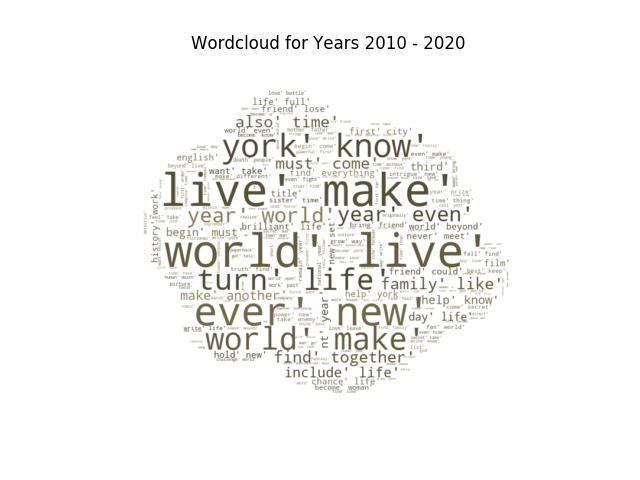
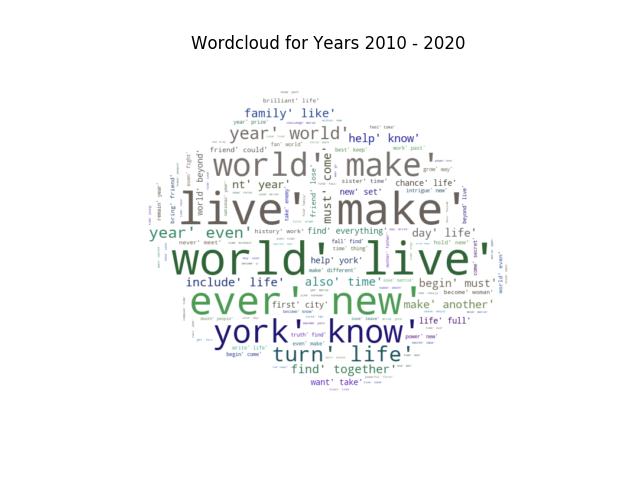
Pushing final changes for overview in views

Changed region(s): [[0.2188, 0.1875, 0.8125, 0.8438]]

diff --git a/Brie/app/templates/app/overview.html b/Brie/app/templates/app/overview.html
@@ -102,10 +102,10 @@
                     </div>
             </div>
 
-            {% if most_priciest_genres_div %}
+            {% if priciest_genres_div %}
                 <div >
                    <center>
-                {{most_priciest_genres_div|safe}}
+                {{priciest_genres_div|safe}}
                       </center>
                 </div>
                 {% endif %}
@@ -142,8 +142,7 @@
           <br/><br/>
 
             <center><b><h2>Wordclouds: Famous Words by Years</h2></b> </center>
-
-            <div class='circle-container'>
+            <div>
                 <img src="../../static/img/image5.png", alt= '1800 - 1870',title='1800 - 1870'>
                 <img src="../../static/img/image4.png" , alt='1870 - 1960',title='1870 - 1960'>
                 <center>

diff --git a/Brie/app/views.py b/Brie/app/views.py
@@ -12,6 +12,12 @@ import plotly.plotly
 from plotly.graph_objs import Bar, Scatter, Layout
 import numpy as np
 import collections
+import random
+from wordcloud import WordCloud
+import matplotlib.pyplot as plt
+from os import path
+from PIL import Image
+import string
 
 mongo_client = MongoClient('mongodb://sethu:sethu123@localhost:27017/Brie')
 mongo_brie_db = mongo_client.Brie
@@ -107,8 +113,9 @@ def book_view(request, book_id):
 
 
 def random_color_func(word=None, font_size=None, position=None,  orientation=None, font_path=None, random_state=None):
-    h = int(360.0 * 32.0 / 255.0)
-    s = int(100.0 * 56.0 / 255.0)
+    random_int = (random.randint(0, 200))
+    h = int(360.0 * random_int / 255.0)
+    s = int(100.0 * random_int / 255.0)
     l = int(100.0 * float(random_state.randint(60, 120)) / 255.0)
     return "hsl({}, {}%, {}%)".format(h, s, l)
 
@@ -162,8 +169,8 @@ def overview(request):
         chart_labels_dict[years_lst[i]] = chart_labels[i]
 
     ctr = 0
-    while ctr<2000:
-        page_buckets.append(ctr+100)
+    while ctr < 2000:
+        page_buckets.append(ctr + 100)
         ctr += 100
 
     # all books are in their respective decades by the end of this for loop
@@ -198,7 +205,7 @@ def overview(request):
         book_counter_per_yrange = 0
         pages_counter_per_yrange = 0
         for item in book:
-            #genre-related
+            # genre-related
             if len(item["genres"]) == 0 or item["genres"][0] == "":
                 genre_dissect = item["genre_dissect"]
                 if (len(genre_dissect)) == 0:
@@ -222,7 +229,7 @@ def overview(request):
             price_val = 0
             if 1 <= item["google_play_price"] <= 100:
                 price_sum += item["google_play_price"]
-                price_val +=1
+                price_val += 1
             if 1 <= item["barnes_and_noble_price"] <= 100:
                 price_sum += item["barnes_and_noble_price"]
                 price_val += 1
@@ -243,20 +250,20 @@ def overview(request):
             language = item["language"]
             if language == "":
                 language = "Unspecified"
-            if(language!="Unspecified"): #removing unspecified
+            if (language != "Unspecified"):  # removing unspecified
                 book_languages_dict[year].append(language)
                 all_language_lst.append(language)
 
             # #-books/month
             pub_month = item["pub_month"]
-            if(pub_month!=-1):
-                book_months_dict[pub_month] +=1
+            if (pub_month != -1):
+                book_months_dict[pub_month] += 1
 
             # pgs vs price
             for size in page_buckets:
-                if(size-100 <=item["pages"] < size):
-                    if(price_sum>0 and item["pages"]>0):
-                        pages_price_dict[size].append(price_sum/price_val)
+                if (size - 100 <= item["pages"] < size):
+                    if (price_sum > 0 and item["pages"] > 0):
+                        pages_price_dict[size].append(price_sum / price_val)
 
             # popular words
             descriptions = []
@@ -276,7 +283,8 @@ def overview(request):
 
     for (key, val) in genre_count.items():
         v = sorted(val.items(), key=lambda x: x[1], reverse=True)
-        genre_count[key] = ("{:<15}".format(v[0][0]), '<br>', "{:<15}".format(v[1][0]),'<br>', "{:<15}".format(v[2][0]))
+        genre_count[key] = (
+        "{:<15}".format(v[0][0]), '<br>', "{:<15}".format(v[1][0]), '<br>', "{:<15}".format(v[2][0]))
         genre_count[key] = ''.join(genre_count[key])
         chart_values.append(genre_count[key])
 
@@ -286,14 +294,13 @@ def overview(request):
                      cells=dict(values=[chart_labels, chart_values],
                                 line=dict(color='black'),
                                 align=['center']))
-
     data = [trace]
     layout = go.Layout(title="<b>Top Genres per Year Range</b>", height=650, width=550,
-                       autosize=False, font=dict( size=15))
+                       autosize=False, font=dict(size=15))
 
     figure = go.Figure(data=data, layout=layout)
-    genres_by_year_div = opy.plot(figure, auto_open=False, output_type='div', config={"displayModeBar": False},
-                                  show_link=False)
+    genres_by_year_div = opy.plot(figure, auto_open=False, output_type='div',
+                                  show_link=False)  # config={"displayModeBar": False},
 
     context["genres_by_year_div"] = genres_by_year_div
 
@@ -317,15 +324,20 @@ def overview(request):
         x=genre_labels,
         y=genre_values,
         name='Number of Books',
-        marker=dict(color='rgb(49,130,189)'))
+        marker=dict(
+            color=['#00556B', '#00637C', '#006E89', '#007896', '#008EB2',
+                   '#009FC6', '#00A3CC', '#00A9D3', '#00B1DD', '#00C1F2',
+                   ]
+        ))
 
     data = [trace]
-    layout = go.Layout( title="<b>Top-10 Genres in Our Collection</b>", height=550, width=1100,
+    layout = go.Layout(title="<b>Top-10 Genres in Our Collection</b>", height=550, width=1100,
                        autosize=False, yaxis=dict(title='Number of Books'),
-                        xaxis=dict(title='Genres'), font=dict( size=15))
+                       xaxis=dict(title='Genres'), font=dict(size=15))
     figure = go.Figure(data=data, layout=layout)
     most_popular_genres_div = opy.plot(figure, auto_open=False, output_type='div',
-                                       config={"displayModeBar": False}, show_link=False)
+                                       show_link=False)  # config={"displayModeBar": False}
+
     context["most_popular_genres_div"] = most_popular_genres_div
 
     # chart-3: price per genre
@@ -335,7 +347,7 @@ def overview(request):
 
     for key, value in overall_prices.items():
         if top_most_genres_dict[key] > 20:
-            v = round(overall_prices[key]/top_most_genres_dict[key],2)
+            v = round(overall_prices[key] / top_most_genres_dict[key], 2)
             overall_prices_result[key] = v
 
     overall_prices_result_sorted = sorted(overall_prices_result.items(), key=lambda x: x[1], reverse=True)
@@ -349,18 +361,20 @@ def overview(request):
 
     trace = go.Bar(x=price_labels, y=price_values, hoverinfo='label+percent',
                    marker=dict(
-                       color=['#ff598f', '#fd8a5e', '#e0e300', '#01dddd', '#ff598f', '#fd8a5e', '#e0e300',
-                              '#01dddd', '#ff598f', '#fd8a5e', '#e0e300', '#01dddd', '#fd8a5e', '#e0e300',
-                              '#01dddd'])
-                   )
+                       color=[
+                           '#3C015E', '#44026B', '#530282', '#5B028E', '#600396',
+                           '#6A159B', '#7117A5', '#7B19B5', '#811ABC', '#7D07C1',
+                           '#8708D1', '#8C08D8', '#9409E5', '#9700EF', '#A100FF'
+                       ]
+                   ))
     data = go.Data([trace])
     layout = go.Layout(title="<b>Average Book-Price per Genre</b>", height=500, width=1300, autosize=False,
-                font=dict( size=15), yaxis=dict(title='Price of Books'),xaxis = dict(title='Genres'))
+                       font=dict(size=15), yaxis=dict(title='Price of Books'), xaxis=dict(title='Genres'))
 
     figure = go.Figure(data=data, layout=layout)
-    most_priciest_genres_div = opy.plot(figure, auto_open=False, output_type='div', config={"displayModeBar": False},
-                                        show_link=False)
-    context["most_priciest_genres_div"] = most_priciest_genres_div
+    priciest_genres_div = opy.plot(figure, auto_open=False, output_type='div',
+                                   show_link=False)  # config={"displayModeBar": False},
+    context["priciest_genres_div"] = priciest_genres_div
 
     # code commented on purpose
     # chart-4: wordcloud - popular word by decade
@@ -369,10 +383,16 @@ def overview(request):
     #
     # ctr = 1
     # for key, value in words_dict.items():
-    #     text = ' '.join(str(v) for v in value)
-    #     words_dict[key] = text
+    #     temp_value = [x for x in value if x != []]
+    #     text = ' '.join(str(v) for v in temp_value)
+    #     #text = text.translate(string.maketrans("",""), string.punctuation)
+    #     table = str.maketrans({key: None for key in string.punctuation})
+    #     new_text = str(text.translate(table))
+    #     words_dict[key] = new_text
+    #     print("text::::::::", new_text[0:100])
     #     wc = WordCloud(background_color="white",
     #                    max_words=200,
+    #                    margin=10,
     #                    mask=mask,
     #                    color_func=random_color_func).generate(text)
     #     default_colors = wc.to_array()
@@ -385,30 +405,29 @@ def overview(request):
     #     plt.savefig("../Brie/app/static/img/image"+str(ctr)+".png")
     #     plt.close(fig)
     #     ctr += 1
-    #
 
-    #chart-5: #Pages per decade
-    for i in range (len(number_of_pages_by_years)):
-        value = number_of_pages_by_years[i]/number_of_books_by_years[i]
+    # chart-5: #Pages per decade
+    for i in range(len(number_of_pages_by_years)):
+        value = number_of_pages_by_years[i] / number_of_books_by_years[i]
         number_of_pages_values.append(value)
 
     trace = go.Scatter(
         x=chart_labels,
-        y=number_of_pages_values, mode="lines+markers+text", textposition = "top", text=number_of_pages_values,
-         connectgaps=True, hoverinfo='y')
+        y=number_of_pages_values, mode="lines+markers+text", textposition="top", text=number_of_pages_values,
+        connectgaps=True, hoverinfo='y')
 
     data = go.Data([trace])
     layout = go.Layout(title="<b>Average Number of Pages by Year</b>", height=500, width=1100,
-                       autosize=False, font=dict( size=15),
+                       autosize=False, font=dict(size=15),
                        yaxis=dict(title='Number of Pages', range=[0, 1000]),
                        xaxis=dict(title='Years')
                        )
     figure = go.Figure(data=data, layout=layout)
-    avg_pages_per_yrange_div = opy.plot(figure, auto_open=False, output_type='div', config={"displayModeBar": False},
-                                        show_link=False)
+    avg_pages_per_yrange_div = opy.plot(figure, auto_open=False, output_type='div',
+                                        show_link=False)  # config={"displayModeBar": False},
     context["avg_pages_per_yrange_div"] = avg_pages_per_yrange_div
 
-    #chart-6: #Books per language
+    # chart-6: #Books per language
 
     for year, lang in book_languages_dict.items():
         language_count_dict[year] = dict(Counter(lang))
@@ -437,8 +456,7 @@ def overview(request):
     genre_count[key] = ''.join(genre_count[key])
     chart_values.append(genre_count[key])
 
-
-    #get top 3 languages per year
+    # get top 3 languages per year
     for i in range(5):
         language_label = []
         language_value = []
@@ -460,11 +478,11 @@ def overview(request):
     layout = go.Layout(title="<b>Top Languages by Years</b>", height=600, width=550,
                        autosize=False, font=dict(size=15))
     figure = go.Figure(data=data, layout=layout)
-    languages_by_year_div = opy.plot(figure, auto_open=False, output_type='div', config={"displayModeBar": False},
-                             show_link = False)
+    languages_by_year_div = opy.plot(figure, auto_open=False, output_type='div',
+                                     show_link=False)  # config={"displayModeBar": False},
     context["languages_by_year_div"] = languages_by_year_div
 
-    #chart-7: Number of books by month: bubble chart
+    # chart-7: Number of books by month: bubble chart
 
     book_months_dict = collections.OrderedDict(sorted(book_months_dict.items()))
 
@@ -474,13 +492,14 @@ def overview(request):
     for month, count in book_months_dict.items():
         month_counts.append(count)
 
-    months_ranked = {key: rank for rank, key in enumerate(sorted(book_months_dict, key=book_months_dict.get, reverse=False), 1)}
+    months_ranked = {key: rank for rank, key in
+                     enumerate(sorted(book_months_dict, key=book_months_dict.get, reverse=False), 1)}
 
     marker_size = [1 for i in range(13)]
 
     for i in range(12):
-        marker_size[i] = months_ranked[i+1] *5
-        if marker_size[i]<=5:
+        marker_size[i] = months_ranked[i + 1] * 5
+        if marker_size[i] <= 5:
             marker_size[i] = 10
 
     trace = go.Scatter(
@@ -491,7 +510,7 @@ def overview(request):
             color=['rgb(93, 164, 214)', 'rgb(255, 144, 14)',
                    'rgb(44, 190, 101)', 'rgb(255, 165, 124)', 'rgb(255, 65, 54)', '#981313',
                    '#b300b3', '#ff9900', '#578eb0', '#d20040', '#00fdaa', '#8ce55f'],
-            opacity=[0.6]*12,
+            opacity=[0.6] * 12,
             size=marker_size))
 
     data = [trace]
@@ -500,11 +519,11 @@ def overview(request):
                        yaxis=dict(title='Number of Books'),
                        xaxis=dict(title='Months'))
     figure = go.Figure(data=data, layout=layout)
-    books_by_month_div = opy.plot(figure, auto_open=False, output_type='div', config={"displayModeBar": False},
-                                        show_link=False)
+    books_by_month_div = opy.plot(figure, auto_open=False, output_type='div',
+                                  show_link=False)  # config={"displayModeBar": False},
     context["books_by_month_div"] = books_by_month_div
 
-    #chart-8: Pages vs Price of books per year_range
+    # chart-8: Pages vs Price of books per year_range
     price_labels = []
     pages_labels = []
 
@@ -513,8 +532,8 @@ def overview(request):
     for pages, price in pages_price_dict.items():
         sum = 0
         for p in price:
-            sum+=p
-        avg = sum/len(price)
+            sum += p
+        avg = sum / len(price)
         pages_labels.append(pages)
         price_labels.append(round(avg, 2))
 
@@ -531,10 +550,9 @@ def overview(request):
                        xaxis=dict(title='Number of Pages'))
 
     figure = go.Figure(data=data, layout=layout)
-    avg_price_per_page_div = opy.plot(figure, auto_open=False, output_type='div', config={"displayModeBar": False},
-                                        show_link=False)
+    avg_price_per_page_div = opy.plot(figure, auto_open=False, output_type='div',
+                                      show_link=False)  # config={"displayModeBar": False},
     context["avg_price_per_page_div"] = avg_price_per_page_div
-
     return render(request, 'app/overview.html', context)
 
 
